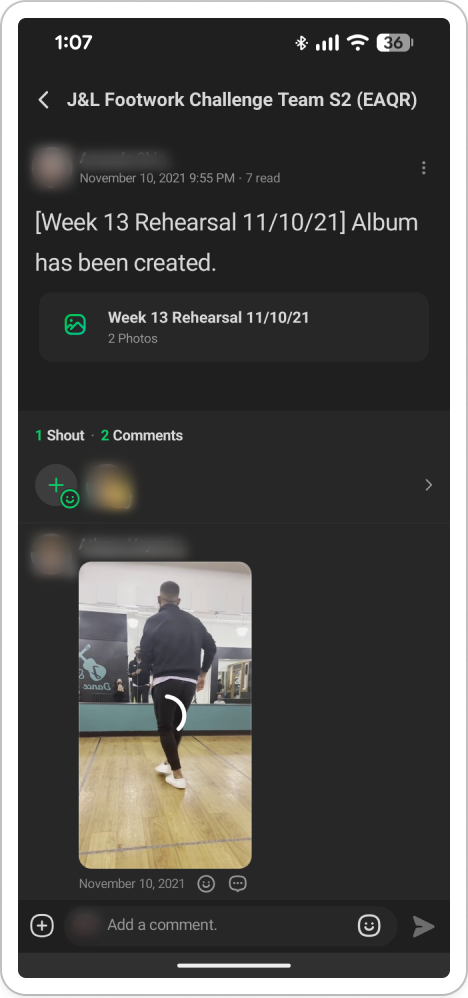
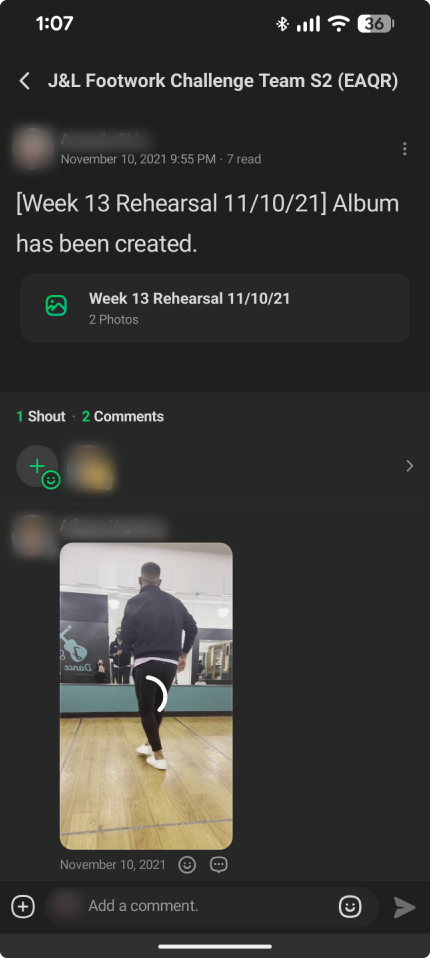
Dance Coach: remove the white border from the Band screenshot
Claude-Session: https://claude.ai/code/session_014Lh1RsNkYdsw7n6TGjZWwq

Changed region(s): [[0.0, 0.0, 1.0, 1.0], [0.2116, 0.3027, 0.6651, 0.3633], [0.0907, 0.3027, 0.1814, 0.333]]

diff --git a/dance-coach.html b/dance-coach.html
@@ -724,6 +724,7 @@
   .shot-row.phone-mid { grid-template-columns: 1fr 0.55fr 1fr; }
   .shot-row .shot-phone { grid-row: auto; }
   .shot-row img[src*="justmove"] { border: 1px solid var(--line); border-radius: 12px; }
+.shot-row img[src*="comp-band"] { border-radius: 12px; }
   @media (max-width: 600px) { .shot-row.phone-first, .shot-row.phone-mid { grid-template-columns: 1fr 1fr; } .shot-row .shot-phone { grid-column: 1 / -1; max-width: 180px; justify-self: center; } .shot-row.phone-mid .shot-phone { order: -1; } .shot-row.phone-first .shot-phone { order: -1; } }
 </style>
 <link rel="stylesheet" href="shared.css" />
@@ -892,7 +893,7 @@
       <div class="prose"><p>Before designing, I looked at what dancers use today. I compared eight options: the team&#x27;s current tool (Band), two online courses, three AI movement-analysis apps, and the two things people fall back on, private lessons and practicing alone. <a class="inline-link" href="https://docs.google.com/spreadsheets/d/1SWA9dzx5Bd-vYWCknn8r-yRAy27ek6seHgWJxQpd9Oo/edit" target="_blank" rel="noopener">View the full analysis (Google Sheet)</a></p></div>
       <div class="shot-group-label">Current tool and online courses</div>
       <div class="shot-grid shot-row phone-first">
-        <figure class="shot shot-phone"><img src="images/dance-coach/comp-band.png" width="468" height="998" loading="lazy" alt="Band app on a phone: a team rehearsal album post with a practice video, names blurred" /><figcaption><b>Band</b>Current tool</figcaption></figure>
+        <figure class="shot shot-phone"><img src="images/dance-coach/comp-band.png" width="430" height="958" loading="lazy" alt="Band app on a phone: a team rehearsal album post with a practice video, names blurred" /><figcaption><b>Band</b>Current tool</figcaption></figure>
         <figure class="shot"><img src="images/dance-coach/comp-vdance.jpg" width="960" height="720" loading="lazy" alt="VDanceClub lesson video with a mirror feature for following the teachers" /><figcaption><b>VDanceClub</b>Online course</figcaption></figure>
         <figure class="shot"><img src="images/dance-coach/comp-bda.jpg" width="960" height="720" loading="lazy" alt="Bachata Dance Academy landing page selling a step-by-step course" /><figcaption><b>Bachata Dance Academy</b>Online course</figcaption></figure>
       </div>
